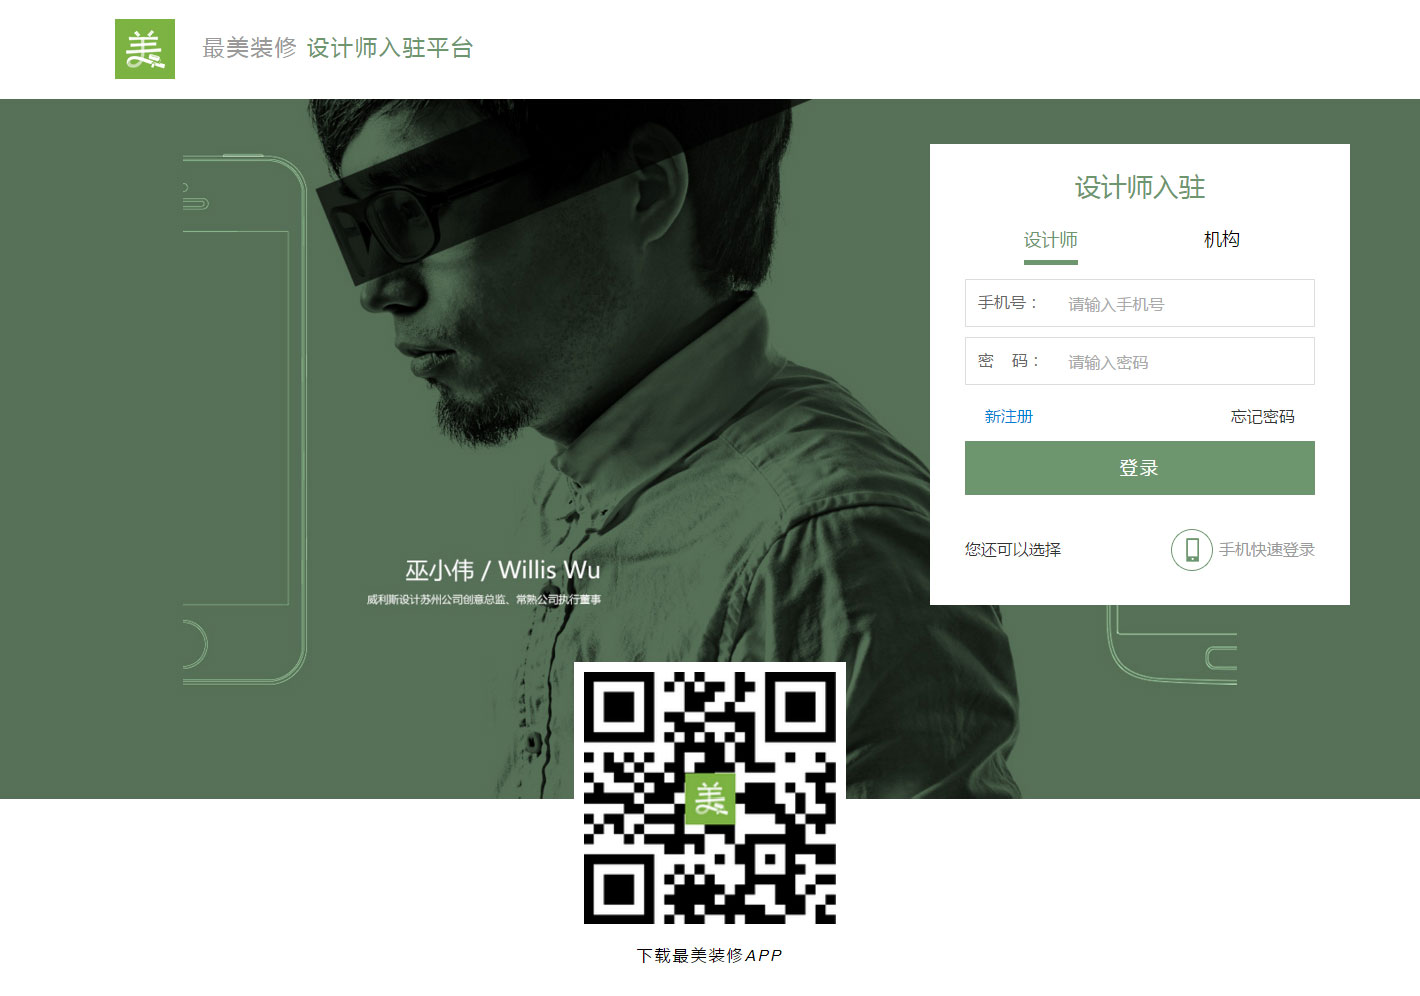
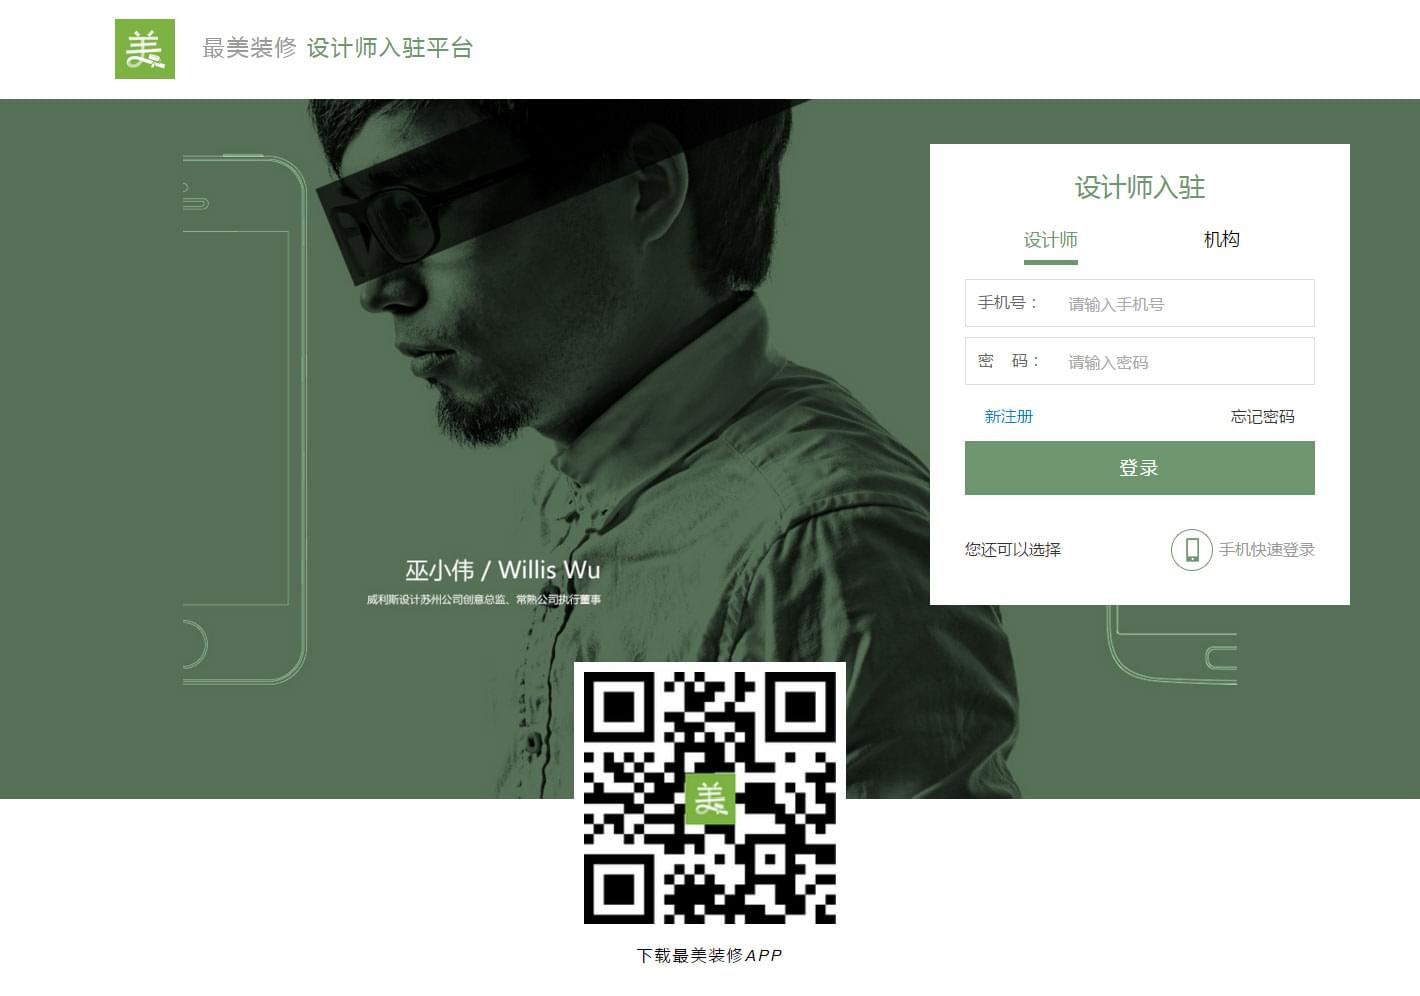
compress pictures.

diff --git a/index.html b/index.html
@@ -27,7 +27,7 @@
                 <a href="https://github.com/jcpplus/CV" target="_blank">源代码</a>
             </li>
             <li>
-                <a href="梁奕铃的简历.pdf" target="_blank">PDF 下载</a>
+                <a href="梁奕铃的简历.pdf" target="_blank">PDF下载</a>
             </li>
             <li>
                 <a href="http://jcpplus.github.io/" target="_blank">Blog</a>
@@ -128,9 +128,9 @@
                             <a href="http://android.myapp.com/myapp/detail.htm?apkName=com.suryani.jiagallery&apkCode=21" target="_blank"><i class="icon-link"></i>应用宝</a>
                             </h4>
                             <p>在项目初期，该项目是以Hybird模式进行开发。我实现了该项目中的一些通用模块如：页面滑动，仿iOS的弹出层等。</p>
-                            <p>项目在进入正常发展之后，调整成为原生开发。但是这一套组件仍然在M站中使用。目前该组件也在不断更新。</p>
+                            <p>项目在进入正常发展之后，调整成为原生开发。但是这一套组件仍然在M站使用。目前该组件也在不断更新。</p>
                             <p>使用 Gulp browser-sync 改进工作流</p>
-                            <img src="img/1zuimei.png">
+                            <img src="img/1zuimei.jpg">
                         </li>
                         <li>
                             <div class="circle"></div>

diff --git a/print.html b/print.html
@@ -109,7 +109,7 @@
                             <a href="http://android.myapp.com/myapp/detail.htm?apkName=com.suryani.jiagallery&apkCode=21" target="_blank"><i class="icon-link"></i>应用宝</a>
                             </h4>
                             <p>在项目初期，该项目是以Hybird模式进行开发。我实现了该项目中的一些通用模块如：页面滑动，仿iOS的弹出层等。</p>
-                            <p>项目在进入正常发展之后，调整成为原生开发。但是这一套组件仍然在M站中使用。目前该组件也在不断更新。</p>
+                            <p>项目在进入正常发展之后，调整成为原生开发。但是这一套组件仍然在M站使用。目前该组件也在不断更新。</p>
                             <p>使用 Gulp browser-sync 改进工作流</p>
                         </li>
                         <li>
